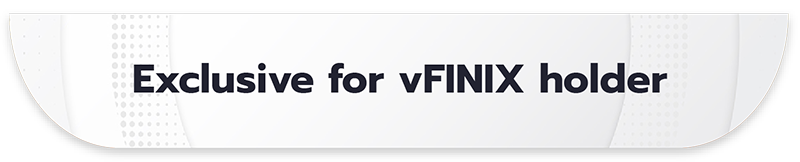
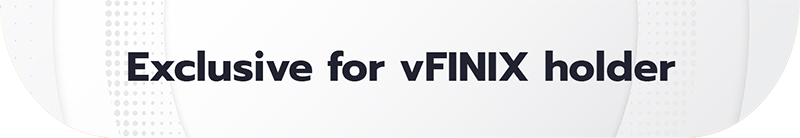
fix: UI super stake

diff --git a/src/views/LongTermStake/CardSuperStake.tsx b/src/views/LongTermStake/CardSuperStake.tsx
@@ -1,17 +1,13 @@
 import React, { useState, useEffect, useCallback } from 'react'
-import { useRouteMatch } from 'react-router-dom'
-import Lottie from 'react-lottie'
 import BigNumber from 'bignumber.js'
 import styled from 'styled-components'
 import numeral from 'numeral'
 import { useWallet } from '@sixnetwork/klaytn-use-wallet'
 import _ from 'lodash'
 import moment from 'moment'
-// import useTopUp from '../../hooks/useTopUp'
+import ModalSorry from '../../uikit-dev/widgets/Modal/ModalSorry'
 import useTheme from '../../hooks/useTheme'
 import { Card, Button, useMatchBreakpoints, Text, Heading, useModal } from '../../uikit-dev'
-import success from '../../uikit-dev/animation/complete.json'
-import loading from '../../uikit-dev/animation/farmPool.json'
 import ConnectModal from '../../uikit-dev/widgets/WalletModal/ConnectModal'
 import logoExclusive from '../../uikit-dev/images/for-ui-v2/long-term-stake/logo-exclusive-vfinix.png'
 import badgeExclusive from '../../uikit-dev/images/for-ui-v2/long-term-stake/badge-exclusive.png'
@@ -22,7 +18,6 @@ import {
   useLock,
   useApprove,
   useAllLock,
-  useApr,
   usePrivateData,
   useLockTopup,
   useAllDataLock,
@@ -30,18 +25,6 @@ import {
 import { useLockPlus } from '../../hooks/useTopUp'
 import StakePeriodButton from './components/StakePeriodButton'
 import LongTermTab from './components/LongTermTab'
-
-const SuccessOptions = {
-  loop: true,
-  autoplay: true,
-  animationData: success,
-}
-
-const options = {
-  loop: true,
-  autoplay: true,
-  animationData: loading,
-}
 
 const FinixStake = styled(Card)`
   width: 100%;
@@ -132,7 +115,7 @@ const BadgeExclusive = styled.div`
   display: contents;
 `
 const CardSuperStake = ({ isShowRightPanel }) => {
-  const { path } = useRouteMatch()
+  /* eslint-enable no-unused-vars */
   const [period, setPeriod] = useState(0)
   const { isDark } = useTheme()
   const { isXl, isMd, isLg } = useMatchBreakpoints()
@@ -167,6 +150,7 @@ const CardSuperStake = ({ isShowRightPanel }) => {
   const realPenaltyRate = _.get(allLockPeriod, '0.realPenaltyRate')
   const { onLockPlus } = useLockPlus(period - 1 !== 3 ? period - 1 : 2, idLast, lockFinix, true)
   const [isStake, setIsStake] = useState(lockAmount > 0)
+
 
   useEffect(() => {
     if (lockTopUp !== null && lockTopUp.length > 0) {
@@ -255,7 +239,7 @@ const CardSuperStake = ({ isShowRightPanel }) => {
     setLockFinix(new BigNumber(parseFloat(value)).times(new BigNumber(10).pow(18)).toFixed())
   }, [period, value, periodEnd, allLockPeriod, realPenaltyRate])
 
-  const { onStake, status, loadings } = useLock(letvel, lockFinix, click)
+  const { status, loadings } = useLock(letvel, lockFinix, click)
   useEffect(() => {
     if (status) {
       setVFINIX(0)
@@ -309,8 +293,8 @@ const CardSuperStake = ({ isShowRightPanel }) => {
         Enter an amount
       </Button>
     ) : (
-      renderStakeDOrStake()
-    )
+        renderStakeDOrStake()
+      )
   }
 
   const renderStakeOrInsufficient = () => {
@@ -319,18 +303,18 @@ const CardSuperStake = ({ isShowRightPanel }) => {
         Insufficient Balance
       </Button>
     ) : (
-      renderStakeOrEnter()
-    )
+        renderStakeOrEnter()
+      )
   }
 
   const renderApprovalOrStakeButton = () => {
     return isApproved || transactionHash !== '' ? (
       renderStakeOrInsufficient()
     ) : (
-      <Button fullWidth className="align-self-center" radii="small" onClick={handleApprove}>
-        Approve Contract
-      </Button>
-    )
+        <Button fullWidth className="align-self-center" radii="small" onClick={handleApprove}>
+          Approve Contract
+        </Button>
+      )
   }
 
   useEffect(() => {
@@ -381,20 +365,23 @@ const CardSuperStake = ({ isShowRightPanel }) => {
           <div
             style={{
               position: 'absolute',
-              left: loadings === 'loading' ? '20%' : '38%',
-              top: loadings === 'loading' ? '18%' : '32%',
+              left: loadings === 'loading' ? '20%' : '20%',
+              top: loadings === 'loading' ? '18%' : '38%',
               zIndex: 1,
             }}
           >
-            <Lottie
-              options={loadings === 'loading' ? options : SuccessOptions}
-              height={loadings === 'loading' ? 300 : 155}
-              width={loadings === 'loading' ? 444 : 185}
-            />
+            <ModalSorry title="Sorry, this feature is only for vFINIX holder" hideCloseButton>
+              <div className="flex flex-column w-100 mt-2">
+                <Text color={isDark ? 'white' : '#737375'}>
+                  You have never lock in Long-term Stake. Do you want to start staking in the Long-term Stake to get this
+                  exclusive feature?
+                </Text>
+              </div>
+            </ModalSorry>
           </div>
         )}
         <div
-          style={{ opacity: loadings !== '' ? 0.1 : 1 }}
+          style={{ opacity: !isStake ? 0.1 : 1 }}
           className={`${!isMobileOrTablet ? 'col-8 pt-5' : 'col-12 pr-5'} pb-5 pl-5`}
         >
           <div className={`${!isMobileOrTablet ? '' : 'flex align-items-center justify-space-between'}`}>
@@ -432,6 +419,7 @@ const CardSuperStake = ({ isShowRightPanel }) => {
               Balance: {balanceOf ? numeral(balanceOf).format('0,0.00000') : '-'}
             </Text>
           </div>
+
           {isMobileOrTablet ? (
             <Balance style={{ flexWrap: 'wrap' }}>
               <NumberInput
@@ -462,35 +450,35 @@ const CardSuperStake = ({ isShowRightPanel }) => {
               </Coin>
             </Balance>
           ) : (
-            <Balance>
-              <NumberInput
-                style={{ width: isMobileOrTablet ? '20%' : '45%' }}
-                placeholder="0.00"
-                value={value}
-                onChange={handleChange}
-                pattern="^[0-9]*[,]?[0-9]*$"
-              />
-              {percent !== 1 && (
-                <div className="flex align-center justify-end" style={{ width: 'auto' }}>
-                  <StylesButton className="mr-1" size="sm" onClick={() => setPercent(0.25)}>
-                    25%
+              <Balance>
+                <NumberInput
+                  style={{ width: isMobileOrTablet ? '20%' : '45%' }}
+                  placeholder="0.00"
+                  value={value}
+                  onChange={handleChange}
+                  pattern="^[0-9]*[,]?[0-9]*$"
+                />
+                {percent !== 1 && (
+                  <div className="flex align-center justify-end" style={{ width: 'auto' }}>
+                    <StylesButton className="mr-1" size="sm" onClick={() => setPercent(0.25)}>
+                      25%
                   </StylesButton>
-                  <StylesButton className="mr-1" size="sm" onClick={() => setPercent(0.5)}>
-                    50%
+                    <StylesButton className="mr-1" size="sm" onClick={() => setPercent(0.5)}>
+                      50%
                   </StylesButton>
-                  <StylesButton size="sm" onClick={() => setPercent(1)}>
-                    MAX
+                    <StylesButton size="sm" onClick={() => setPercent(1)}>
+                      MAX
                   </StylesButton>
-                </div>
-              )}
-              <Coin>
-                <img src={`/images/coins/${'FINIX'}.png`} alt="" />
-                <Heading as="h1" fontSize="16px !important">
-                  FINIX
+                  </div>
+                )}
+                <Coin>
+                  <img src={`/images/coins/${'FINIX'}.png`} alt="" />
+                  <Heading as="h1" fontSize="16px !important">
+                    FINIX
                 </Heading>
-              </Coin>
-            </Balance>
-          )}
+                </Coin>
+              </Balance>
+            )}
           <div className="flex mt-4">
             <Text className="col-6" color={isDark ? 'white' : '#000000'}>
               Estimated Period End
@@ -526,8 +514,8 @@ const CardSuperStake = ({ isShowRightPanel }) => {
                 Connect Wallet
               </Button>
             ) : (
-              renderApprovalOrStakeButton()
-            )}
+                renderApprovalOrStakeButton()
+              )}
           </div>
         </div>
         {!isMobileOrTablet && (

diff --git a/src/uikit-dev/widgets/WalletModal/SuperStakeModal.tsx b/src/uikit-dev/widgets/WalletModal/SuperStakeModal.tsx
@@ -110,21 +110,6 @@ const Coins = styled.div`
   }
 `
 
-const Coin = styled.div`
-  min-width: 80px;
-  display: flex;
-  align-items: center;
-  margin: 4px 0;
-  justify-content: end;
-
-  img {
-    flex-shrink: 0;
-    width: 24px;
-    height: 24px;
-    border-radius: ${({ theme }) => theme.radii.circle};
-    margin-right: 6px;
-  }
-`
 
 const NumberInput = styled.input`
   border: none;
@@ -138,6 +123,7 @@ const NumberInput = styled.input`
 `
 
 const CustomCheckbox = styled(Checkbox)`
+border: 1px solid red;
   &.Mui-checked {
     color: ${({ theme }) => theme.colors.success} !important;
   }
@@ -493,9 +479,9 @@ const SuperStakeModal: React.FC<Props> = ({ onDismiss = () => null }) => {
   // }, [selectedToken])
 
   return (
-    <ModalStake title={<img src={exclusive} alt="" />} onDismiss={onDismiss} className="">
-      <div className="flex flex-column w-100">
-        <Text fontSize="20px" fontWeight="600">
+    <ModalStake title={<img src={exclusive} alt="" style={{ borderBottomRightRadius: "60px", borderBottomLeftRadius: "60px", boxShadow: '0 3px 6px rgb(0, 0 ,0, 0.16)' }} />} onDismiss={onDismiss} className="">
+      <div className="flex flex-column w-100 mt-2">
+        <Text fontSize="18px" fontWeight="600">
           Super Stake
         </Text>
         <Text paddingTop="2" color={isDark ? 'white' : '#737375'}>
@@ -659,7 +645,7 @@ const SuperStakeModal: React.FC<Props> = ({ onDismiss = () => null }) => {
           </Text>
           <Balance className="ml-2">
             <NumberInput
-              style={{ width: '45%' }}
+              style={{ width: '45%', color: '#2A9D8F' }}
               placeholder="0.00"
               value={pendingReward}
               disabled
@@ -707,10 +693,10 @@ const SuperStakeModal: React.FC<Props> = ({ onDismiss = () => null }) => {
             {`Harvesting...(${harvestProgress} /${Object.keys(selectedToken).length})`}
           </Button>
         ) : (
-          <Button fullWidth id="harvest-all" radii="small" className="mt-3" onClick={() => setHarvestProgress(0)}>
-            Stake
-          </Button>
-        )}
+            <Button fullWidth id="harvest-all" radii="small" className="mt-3" onClick={() => setHarvestProgress(0)}>
+              Stake
+            </Button>
+          )}
       </div>
     </ModalStake>
   )

diff --git a/src/uikit-dev/widgets/Modal/ModalSorry.tsx b/src/uikit-dev/widgets/Modal/ModalSorry.tsx
@@ -5,8 +5,6 @@ import Flex from '../../components/Box/Flex'
 import { Button, IconButton } from '../../components/Button'
 import Heading from '../../components/Heading/Heading'
 import { ArrowBackIcon, CloseIcon } from '../../components/Svg'
-// import colorStroke from '../../images/Color-stroke.png'
-// import colorStroke from '../../../../i'
 import { InjectedProps } from './types'
 
 interface Props extends InjectedProps {
@@ -23,14 +21,13 @@ interface Props extends InjectedProps {
 
 const StyledModal = styled.div<{ isRainbow: boolean }>`
   background: ${({ theme }) => theme.modal.background};
-  box-shadow: 0px 20px 36px -8px rgba(14, 14, 44, 0.1), 0px 1px 1px rgba(0, 0, 0, 0.05);
+  box-shadow: 0px 20px 36px -8px rgba(14, 30, 44, 0.1), 0px 1px 1px rgba(0, 0, 0, 0.05);
   border-radius: ${({ theme }) => theme.radii.default};
+  border: 1px solid ${({ theme }) => (theme.isDark ? "#3D3D3D" : "#EFEFEF")};
   width: 480px;
-  // height: 80%;
   z-index: ${({ theme }) => theme.zIndices.modal};
   overflow-y: auto;
   ${({ theme }) => theme.mediaQueries.xs} {
-    // width: auto;
     min-width: calc(100% - 24px);
     max-width: calc(100% - 24px);
   }
@@ -38,7 +35,6 @@ const StyledModal = styled.div<{ isRainbow: boolean }>`
     min-width: 360px;
   }
   position: relative;
-  // padding-bottom: ${({ isRainbow }) => (isRainbow ? '4px' : '0')};
 
   .color-stroke {
     position: absolute;
@@ -54,7 +50,7 @@ const ModalHeader = styled.div<{ className?: string }>`
   display: flex;
   align-items: center;
   justify-content: center;
-  margin: 8px 0px 0px 20px;
+  margin: 10px 0px 0px 20px;
 `
 
 const ModalTitle = styled(Flex)`
@@ -68,7 +64,7 @@ const ModalSorry: React.FC<Props> = ({
   onBack,
   children,
   hideCloseButton = false,
-  bodyPadding = '0px 20px 20px',
+  bodyPadding = '0px 20px 10px',
   isRainbow = true,
   classHeader = '',
   maxWidth = '',

diff --git a/src/uikit-dev/widgets/WalletModal/StartLongTermStakeModal.tsx b/src/uikit-dev/widgets/WalletModal/StartLongTermStakeModal.tsx
@@ -3,7 +3,6 @@ import _ from 'lodash'
 import { Button } from 'uikit-dev'
 import ModalSorry from '../Modal/ModalSorry'
 import { Text } from '../../components/Text'
-import StakePeriodButton from '../../../views/LongTermStake/components/StakePeriodButton'
 
 interface Props {
   onDismiss?: () => void
@@ -18,8 +17,8 @@ const StartLongTermStakeModal: React.FC<Props> = ({ onDismiss = () => null }) =>
           exclusive feature?
         </Text>
       </div>
-      <Button as="a" fullWidth id="harvest-all" radii="small" className="mt-5" href="/long-term-stake">
-        Start staking
+      <Button as="a" fullWidth id="harvest-all" radii="small" className="mt-4 mb-3" href="/long-term-stake">
+        Start Long-term Stake
       </Button>
     </ModalSorry>
   )

diff --git a/src/views/LongTermStake/components/LongTermTab.tsx b/src/views/LongTermStake/components/LongTermTab.tsx
@@ -77,7 +77,6 @@ const Tab = styled(NavLink)<{ active: boolean }>`
 `
 
 const LongTermTab = ({ current }) => {
-  console.log('current ==', current)
   return (
     <Tabs>
       <Tab className="ml-2" to="/long-term-stake" active={current === '/long-term-stake'}>
